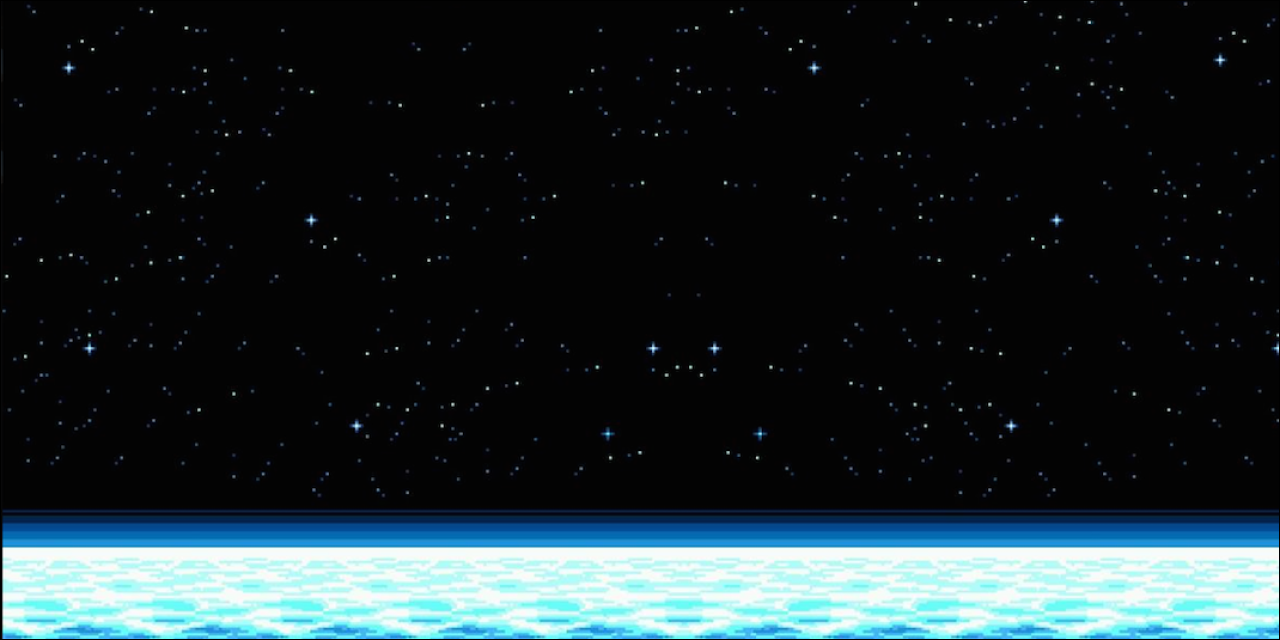
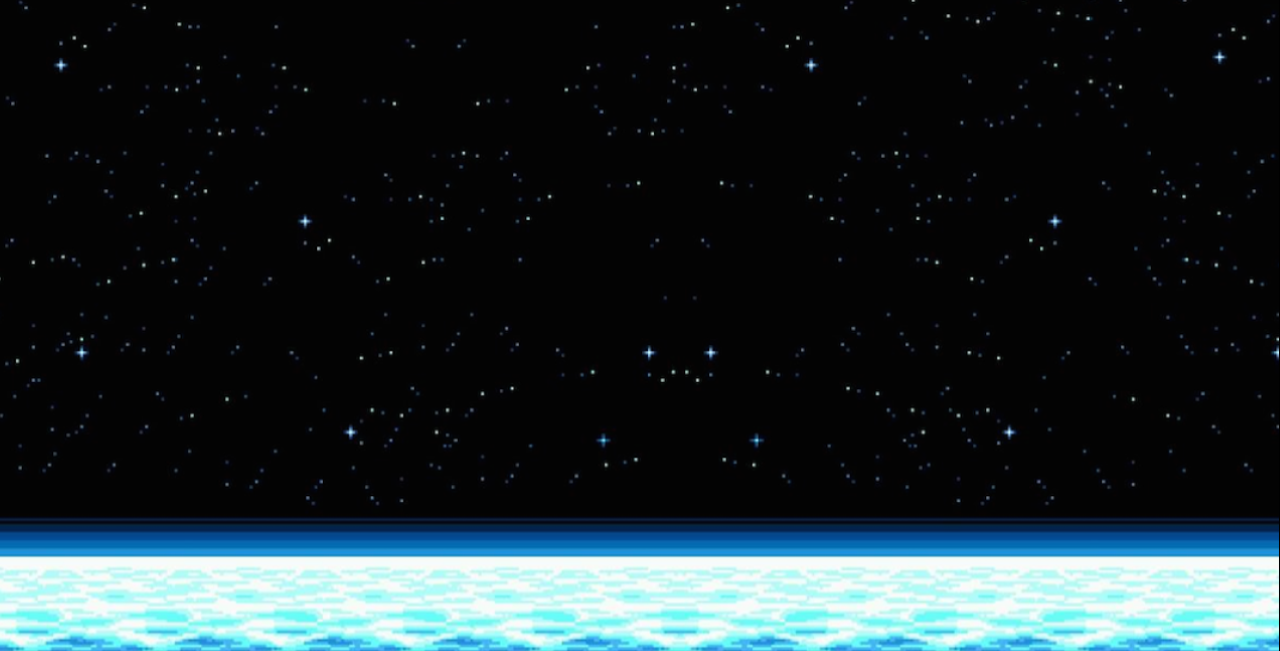
New

diff --git a/Unity.html b/Unity.html
@@ -1,0 +1,100 @@
+<!DOCTYPE html>
+<html>
+  <head>
+    <link rel="stylesheet" href="https://use.fontawesome.com/releases/v5.15.1/css/all.css" integrity="sha384-vp86vTRFVJgpjF9jiIGPEEqYqlDwgyBgEF109VFjmqGmIY/Y4HV4d3Gp2irVfcrp" crossorigin="anonymous">
+    <style>
+      .container {
+        display: flex;
+        flex-wrap: wrap;
+        justify-content: space-between;
+        align-items: center;
+        height: 100vh;
+      }
+      .box {
+        width: 300px;
+        height: 435px;
+        background-color: white;
+        border: 1px solid whitesmoke;
+        display: flex;
+        justify-content: center;
+        align-items: center;
+        font-size: 24px;
+        
+      }
+      .navbar {
+        display: flex;
+        justify-content: space-between;
+        align-items: center;
+        padding: 20px;
+        background-color: #1A2144;
+        color: white;
+      }
+      .navbar a {
+        color: white;
+        margin-right: 20px;
+        text-decoration: none;
+        font-family: 'Public Sans', sans-serif;
+      }
+      .search-container {
+        display: flex;
+        align-items: center;
+      }
+      .search-input {
+        padding: 10px;
+        border: none;
+        font-size: 16px;
+        margin-right: 10px;
+      }
+      
+      body {
+  background-image: url('Group 79.png');
+  background-size: cover;
+}
+    </style>
+  </head>
+  <body  >
+    <nav class="navbar">
+        <div class="logo" style="width: 145px; height: 35px;">
+          <img src="logo.png" alt="Logo">
+        </div>
+        <div class="search-container" style="width: 430px; height: 40px;">
+          <input type="text" class="search-input" placeholder="Search" style="width: 80%; height: 100%;">
+          <span style="margin-left: 10px; height: 100%;">
+            <i class="fas fa-search" style="line-height: 40px;"></i>
+          </span>
+        </div>
+        <div class="links">
+          <a href="#" style="margin-right: 0.5cm; text-decoration: none; font-family: 'Public Pixel', sans-serif;">Accueil</a>
+          <a href="#" style="margin-right: 0.5cm; text-decoration: none; font-family: 'Public Pixel', sans-serif;">Cours</a>
+          <a href="#" style="margin-right: 0.5cm; text-decoration: none; font-family: 'Public Pixel', sans-serif;">Agenda</a>
+          <a href="#" style="margin-right: 0.5cm; text-decoration: none; font-family: 'Public Pixel', sans-serif;">Quiz</a>
+          <a href="#" style="text-decoration: none; font-family: 'Public Pixel', sans-serif;">Contact</a>
+        </div>
+      </nav>
+    <div class="container">
+        
+        <div class="box" style="margin-top:1px; display: flex; flex-direction: column;">
+            <img src="Rectangle 20-1.png" style="width: 270px; height: 260px; align-self: top;">
+            <p style="margin-top: 0.5cm; text-align: left;font-family: 'Public Pixel'">Introduction to Unity</p>
+            <a href="your-link.com" style="align-self: flex-end; margin-right: 0.25cm;font-family: 'Public Pixel';;color: #9b9494;">Show more</a>
+          </div>
+          <div class="box" style="margin-top:1px; display: flex; flex-direction: column;">
+            <img src="Rectangle 20-1.png" style="width: 270px; height: 260px; align-self: top;">
+            <p style="margin-top: 0.5cm; text-align: left;font-family: 'Public Pixel'">How to start with Game Dev</p>
+            <a href="your-link.com" style="align-self: flex-end; margin-right: 0.25cm;font-family: 'Public Pixel';;color: #9b9494;">Show more</a>
+          </div>
+          <div class="box" style="margin-top:1px; display: flex; flex-direction: column;">
+            <img src="Rectangle 20-1.png" style="width: 270px; height: 260px; align-self: top;">
+            <p style="margin-top: 0.5cm; text-align: left;font-family: 'Public Pixel'">Mobile Game Development</p>
+            <a href="your-link.com" style="align-self: flex-end; margin-right: 0.25cm;font-family: 'Public Pixel';;color: #9b9494;">Show more</a>
+          </div>
+          <div class="box" style="margin-top:1px; display: flex; flex-direction: column;">
+            <img src="Rectangle 20-1.png" style="width: 270px; height: 260px; align-self: top;">
+            <p style="margin-top: 0.5cm; text-align: left;font-family: 'Public Pixel';text-size-adjust:24 ;">Create your first Game</p>
+            <a href="your-link.com" style="align-self: flex-end; margin-right: 0.25cm;font-family: 'Public Pixel';;color: #9b9494;">Show more</a>
+          </div>
+          
+        
+      </div>
+  </body>
+</html>

diff --git a/index.html b/index.html
@@ -8,7 +8,7 @@
     </head>
     <body>
         <main>
-            <section>
+            <section class="secone">
                 <div class="headbar">
                    <article class="logoart">
                     <img  class="logo" src="Logo (transparent bg).png" alt="GameDevLogo">
@@ -23,8 +23,6 @@
                     </div>
                 </article>
                 </div>
-            </section>
-            <section>
                 <div class="mainbody">
                 <article class="item">
                     <img  class="gamedev" src="Logo (transparent bg).png" alt="GameDevLogo">
@@ -34,9 +32,9 @@
                     <img  class="ship" src="Ship (1).png" alt="Ship">
                 </article>
                 </div>
-            </section>
-            <section>
                 <button class="startbot">GET STARTED</button>
+            </section>
+            <section class="sectwo">
             </section>
         </main>
     </body>

diff --git a/home.css b/home.css
@@ -8,12 +8,13 @@
     src: url(PressStart2P.ttf);
 }
 body{
+    margin: 0;
+}
+
+/*section1*/
+.secone{
     background-image: url("bg.png");
-    width: 1280;
-    height: 640;
-    background-size:cover;
-    background-position:center center;
-    background-attachment:fixed;
+    height: 650px;
 }
 .logo{
     width: 145px;
@@ -65,7 +66,7 @@ body{
 .startbot{
     width: 178.1px;
     height: 43.09px;
-    margin-left: 40%;
+    margin-left: 43%;
     margin-top: 10px;
     background-color:rgba(25, 45, 96, 0.37);
     font-family: PressStart2P;
@@ -77,4 +78,10 @@ body{
 }
 .startbot:hover{
     box-shadow: 0px 0px 20px 0px #D0B4B4;
+}
+
+/*section2*/
+.sectwo{
+    background-image: url("bg2.png");
+    height: 635px;
 }
